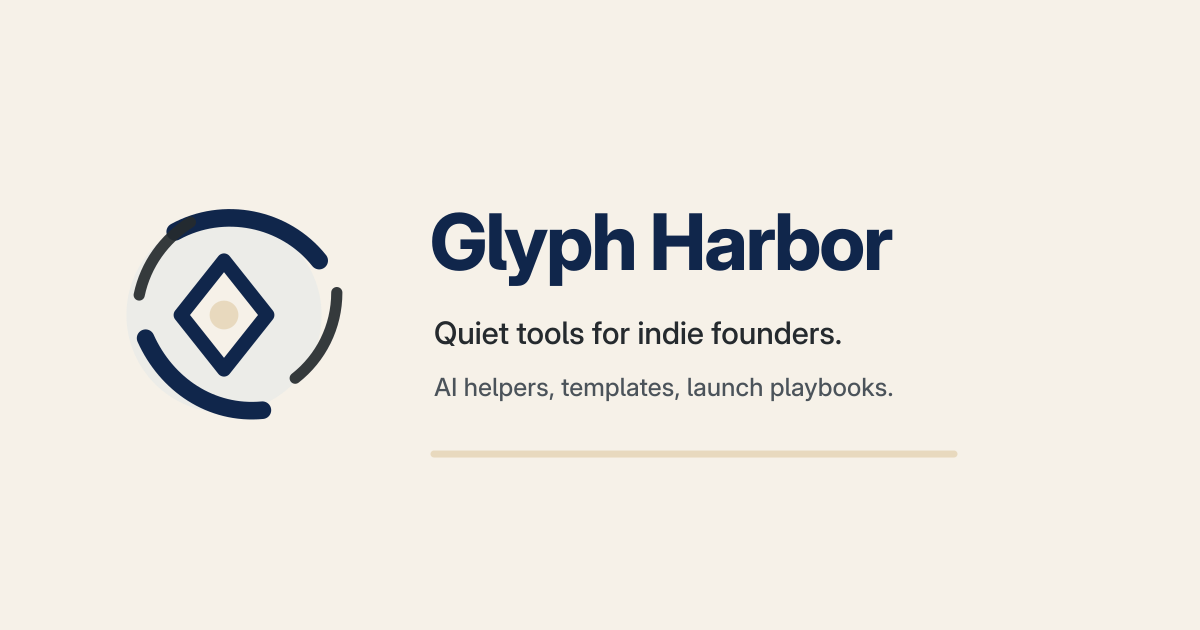
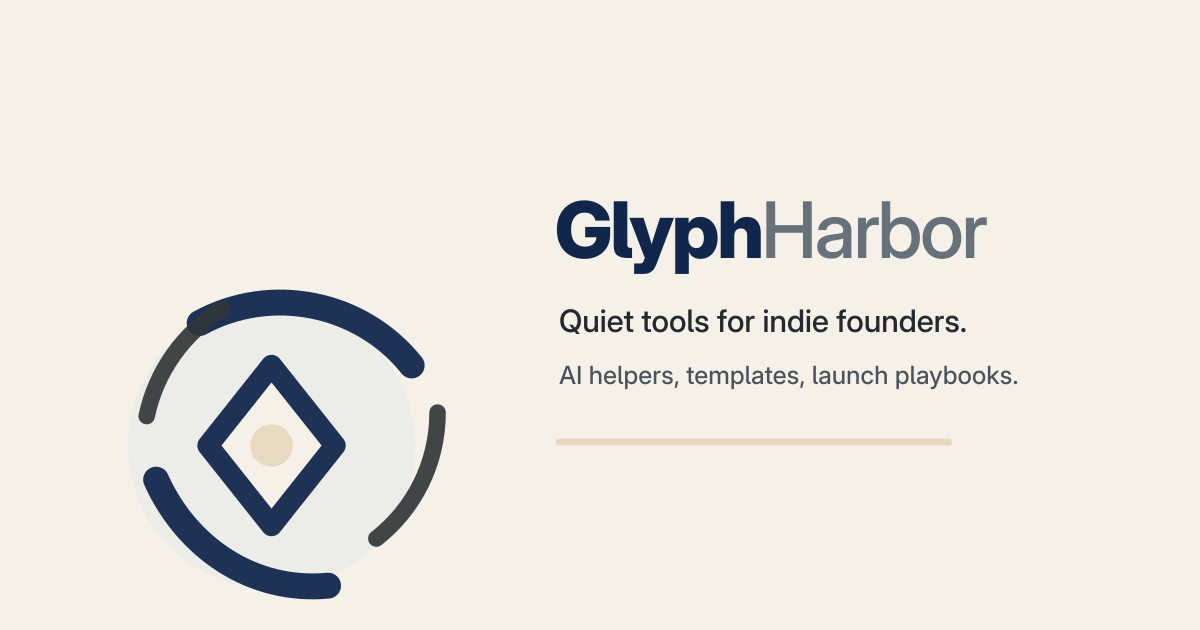
Brand standard: compound 'GlyphHarbor' wordmark (bold + light)
Lock in the compound-wordmark treatment per Mira's banner refinement
2026-05-14 — first word bolder, second word lighter, no space.
Same Blue Steele-style rhythm in Glyph Harbor's calmer aesthetic.

This commit applies the standard everywhere the wordmark appears:
- Top nav wordmark on the hub landing page (HTML + CSS)
- OG social-share image (updated PNG from Mira's option-1-final)

Footer prose ('Glyph Harbor is an operating brand of...') keeps the
natural sentence form for readability — only the standalone wordmark
takes the compound treatment.

Mira artifact: shared/business-launches/incubator/cycles/mira-glyph-harbor-banner-2026-05-14.md
Source folder: shared/business-launches/arms/glyphharbor-brand/option-1-final/

Changed region(s): [[0.0925, 0.3317, 0.8325, 0.9651], [0.3392, 0.3016, 0.8325, 0.4524]]

diff --git a/public/styles.css b/public/styles.css
@@ -57,11 +57,16 @@ a:hover { color: var(--blue-deep); text-decoration: underline; }
 }
 .wordmark {
   font-size: 18px;
-  font-weight: 700;
+  font-weight: 400;
   letter-spacing: 0.03em;
-  color: var(--ink);
+  color: var(--slate);
+}
+.wordmark strong {
+  font-weight: 800;
+  color: var(--blue-deep);
 }
 .wordmark:hover { color: var(--blue-deep); text-decoration: none; }
+.wordmark:hover strong { color: var(--blue); }
 
 .anchors {
   display: flex;

diff --git a/public/index.html b/public/index.html
@@ -21,7 +21,7 @@
 
   <header class="topnav">
     <div class="topnav-inner">
-      <a href="/" class="wordmark">Glyph Harbor</a>
+      <a href="/" class="wordmark"><strong>Glyph</strong>Harbor</a>
       <nav class="anchors">
         <a href="#tools">Tools</a>
         <a href="#templates">Templates</a>
